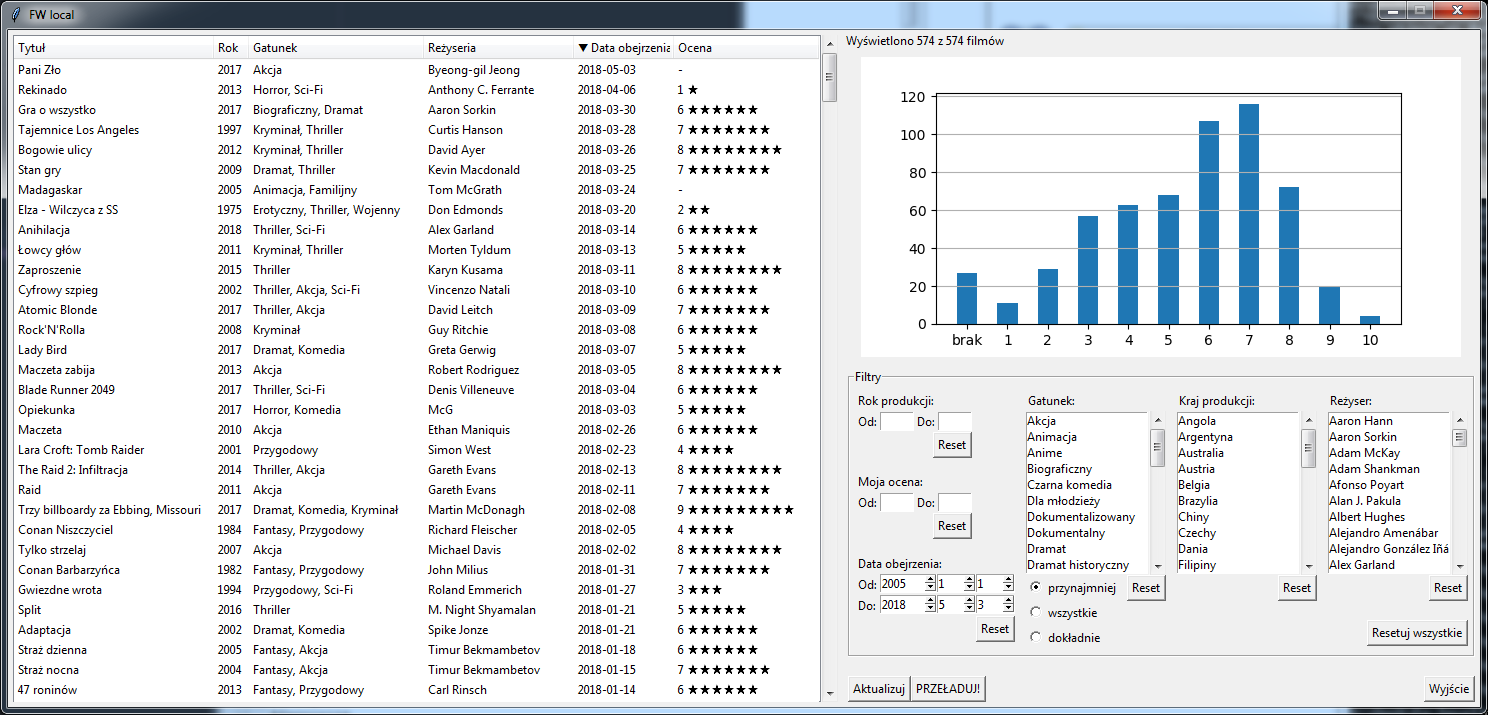
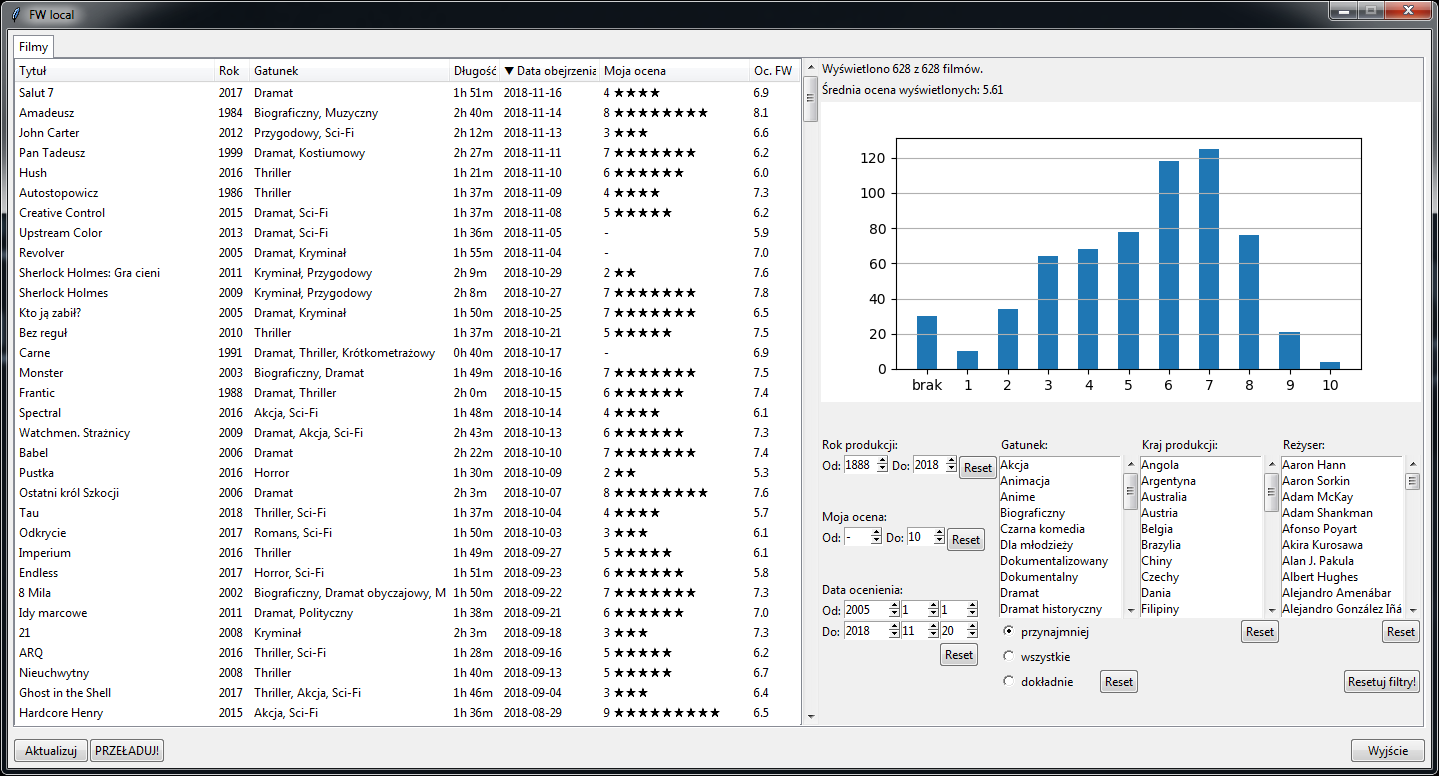
alpha 7 release notes and tiny tweaks

Changed region(s): [[0.0, 0.0, 1.0, 1.0], [0.8562, 0.8, 0.8867, 0.8308]]

diff --git a/fw-local/containers.py b/fw-local/containers.py
@@ -165,7 +165,7 @@ class Item(metaclass=BlueprintInheritance):
   )
   #rating fields are special, will be parsed and stored differently
   rating = Blueprint(
-    name='Ocena',
+    name='Moja ocena',
     colwidth=150,
     display=Blueprint._rating,
     store=False

diff --git a/fw-local/gui.py b/fw-local/gui.py
@@ -9,7 +9,7 @@ from database import Database
 from filmweb import FilmwebAPI
 from presenter import Presenter
 
-VERSION = '1.0-alpha.5'
+VERSION = '1.0-alpha.7'
 
 class Login(object):
   # By default a dormant window that offers a request function to be called by

diff --git a/fw-local/defaults.py b/fw-local/defaults.py
@@ -6,8 +6,7 @@ DEFAULT_CONFIGS = {
     year    = None,
     genres  = None,
     dateOf  = None,
-    rating  = None,
-    comment = None
+    rating  = None
   )
 }
 DEFAULT_SORTING = {

diff --git a/README.md b/README.md
@@ -10,12 +10,12 @@ dzięki temu masz możliwość *przeglądania ich i filtrowania* na różne spos
 **WAŻNE**: fw-local jest na razie w fazie *alfa* - to znaczy, że nie jest jeszcze gotowy i może (oraz będzie) ulegać różnym zmianom!
 
 <a href="https://raw.githubusercontent.com/Noiredd/fw-local/master/screenshot.png">
-<img src="https://github.com/Noiredd/fw-local/blob/master/screenshot.png" width="900" height="432" border="10" alt="Kliknij by zobaczyć w większym rozmiarze" /></a>
+<img src="https://github.com/Noiredd/fw-local/blob/master/screenshot.png" width="900" height="485" border="10" alt="Kliknij by zobaczyć w większym rozmiarze" /></a>
 
 ### Jak uruchomić fw-local?
 Na ten moment program nie ma instalatora, więc pierwsze uruchomienie może być mało wygodne.
 
-0. Pobierz [pliki programu](https://github.com/Noiredd/fw-local/archive/v1.0-alpha.6.zip) i wypakuj, gdzie Ci wygodnie.
+0. Pobierz [pliki programu](https://github.com/Noiredd/fw-local/archive/v1.0-alpha.7.zip) i wypakuj, gdzie Ci wygodnie.
 
 1. Pierwszym krokiem będzie prawdopodobnie instalacja Python3 ([link do oficjalnego wydania](https://www.python.org/downloads/)) -
 na chwilę obecną najnowszym wydaniem jest Python 3.7.1.
@@ -40,13 +40,14 @@ Jeśli w międzyczasie dokonano zmiany którejś z ocen, *aktualizacja* tego nie
 * "PRZEŁADUJ" służy do pełnej aktualizacji bazy, tj. cała Twoja historia ocen zostanie przejrzana ponownie i wszystkie oceny zostaną odświeżone.
 Potrwa to trochę dłużej (tym więcej, im więcej masz ocen), ale to jedyna na ten moment metoda, by uwzględnić zmiany w istniejących ocenach.
 
+Pro tip: P-kliknij na nagłówek kolumn by otworzyć menu konfiguracji - możesz dzięki temu wybrać/usunąć dodatkowe kolumny z widoku bądź zmienić ich kolejność :)
+
 ### Co planuję dalej?
 Następnym krokiem będzie dodanie możliwości przeglądania ocen seriali i gier.
 Dalej - list "chcę zobaczyć".
 Oczywiście nowe kategorie będzie można filtrować na takie same sposoby jak obecnie.
 
-Widok podglądu zostanie prawdopodobnie poszerzony o plakat filmu,
-pojawi się także możliwość konfiguracji układu kolumn.
+Widok podglądu zostanie prawdopodobnie poszerzony o plakat filmu.
 
 Myślę też o poszerzeniu widoku statystyk o parę ciekawszych wskaźników.
 
